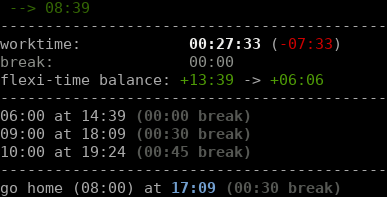
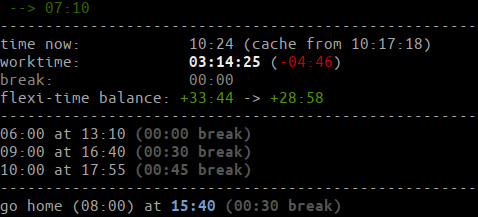
updated readme

diff --git a/main.go b/main.go
@@ -154,7 +154,7 @@ func process() error {
 			return err
 		}
 
-		console.Println("-------------------------------------------")
+		console.Println("-----------------------------------------------------")
 		if cacheOK {
 			console.Printlnf("time now:            %s (cache from %s)", time.Now().Format("15:04"), cacheTime.Format("15:04:05"))
 		} else {
@@ -193,11 +193,11 @@ func process() error {
 		breakTime3 := t3.Sub(startTime) - (9 * time.Hour)
 		breakTime4 := t4.Sub(startTime) - (10 * time.Hour)
 
-		console.Println("-------------------------------------------")
+		console.Println("-----------------------------------------------------")
 		console.Printlnf("06:00 at %s %s(%s break)%s", t1.Format("15:04"), colors.BreakInfo, formatDurationMinutes(breakTime1), colorEnd)
 		console.Printlnf("09:00 at %s %s(%s break)%s", t3.Format("15:04"), colors.BreakInfo, formatDurationMinutes(breakTime3), colorEnd)
 		console.Printlnf("10:00 at %s %s(%s break)%s", t4.Format("15:04"), colors.BreakInfo, formatDurationMinutes(breakTime4), colorEnd)
-		console.Println("-------------------------------------------")
+		console.Println("-----------------------------------------------------")
 		console.Printlnf("go home (%s) at %s%s%s %s(%s break)%s", formatDurationMinutes(targetTime), colors.LeaveTime, t2.Format("15:04"), colorEnd, colors.BreakInfo, formatDurationMinutes(breakTime2), colorEnd)
 
 		if *argReminder {

diff --git a/README.md b/README.md
@@ -9,7 +9,7 @@ Util to show current worktime and possible leave times with Matrix integration.
 To download and install the utility execute the following commands:
 
 ```
-go install github.com/sbreitf1/gohome@latest
+go install github.com/sbreitf1/gohome@v1.4.0
 ```
 
 Now start it with `gohome` from command line.
